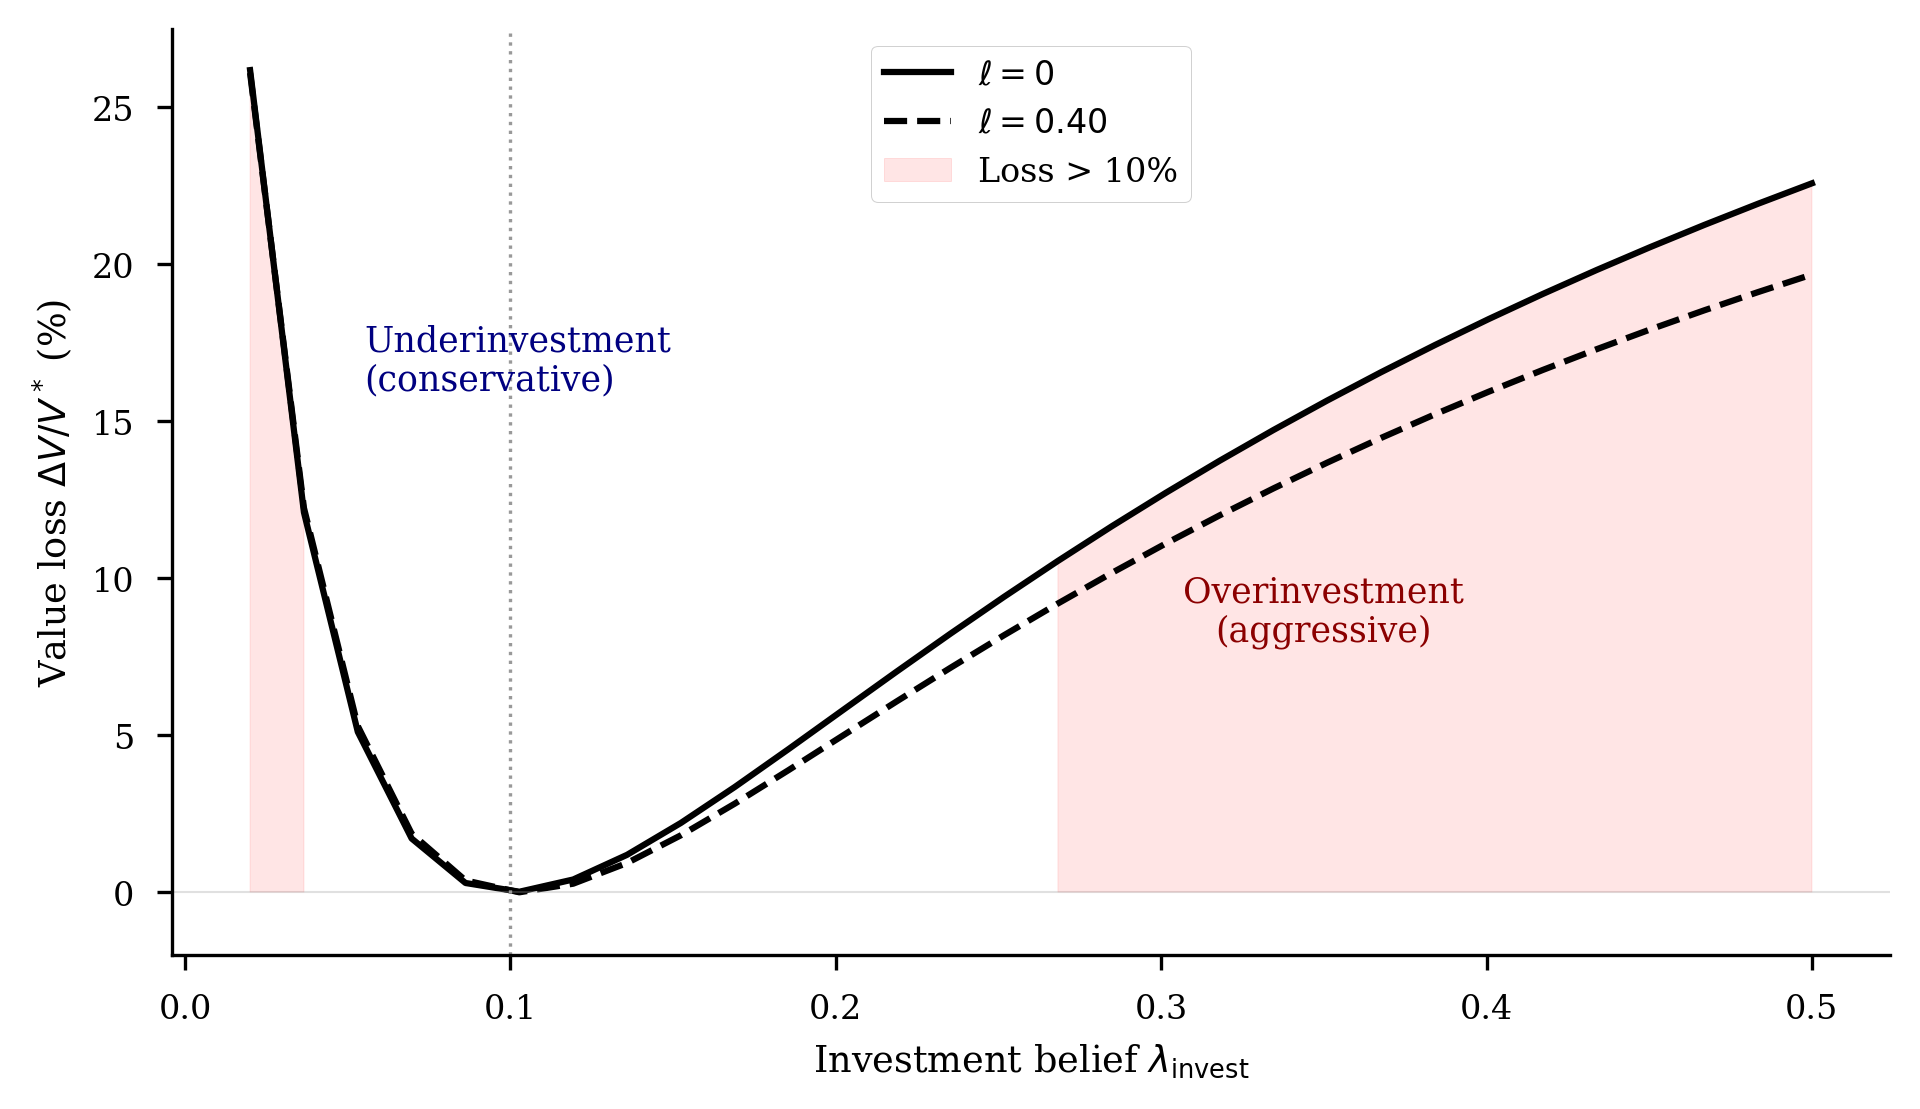
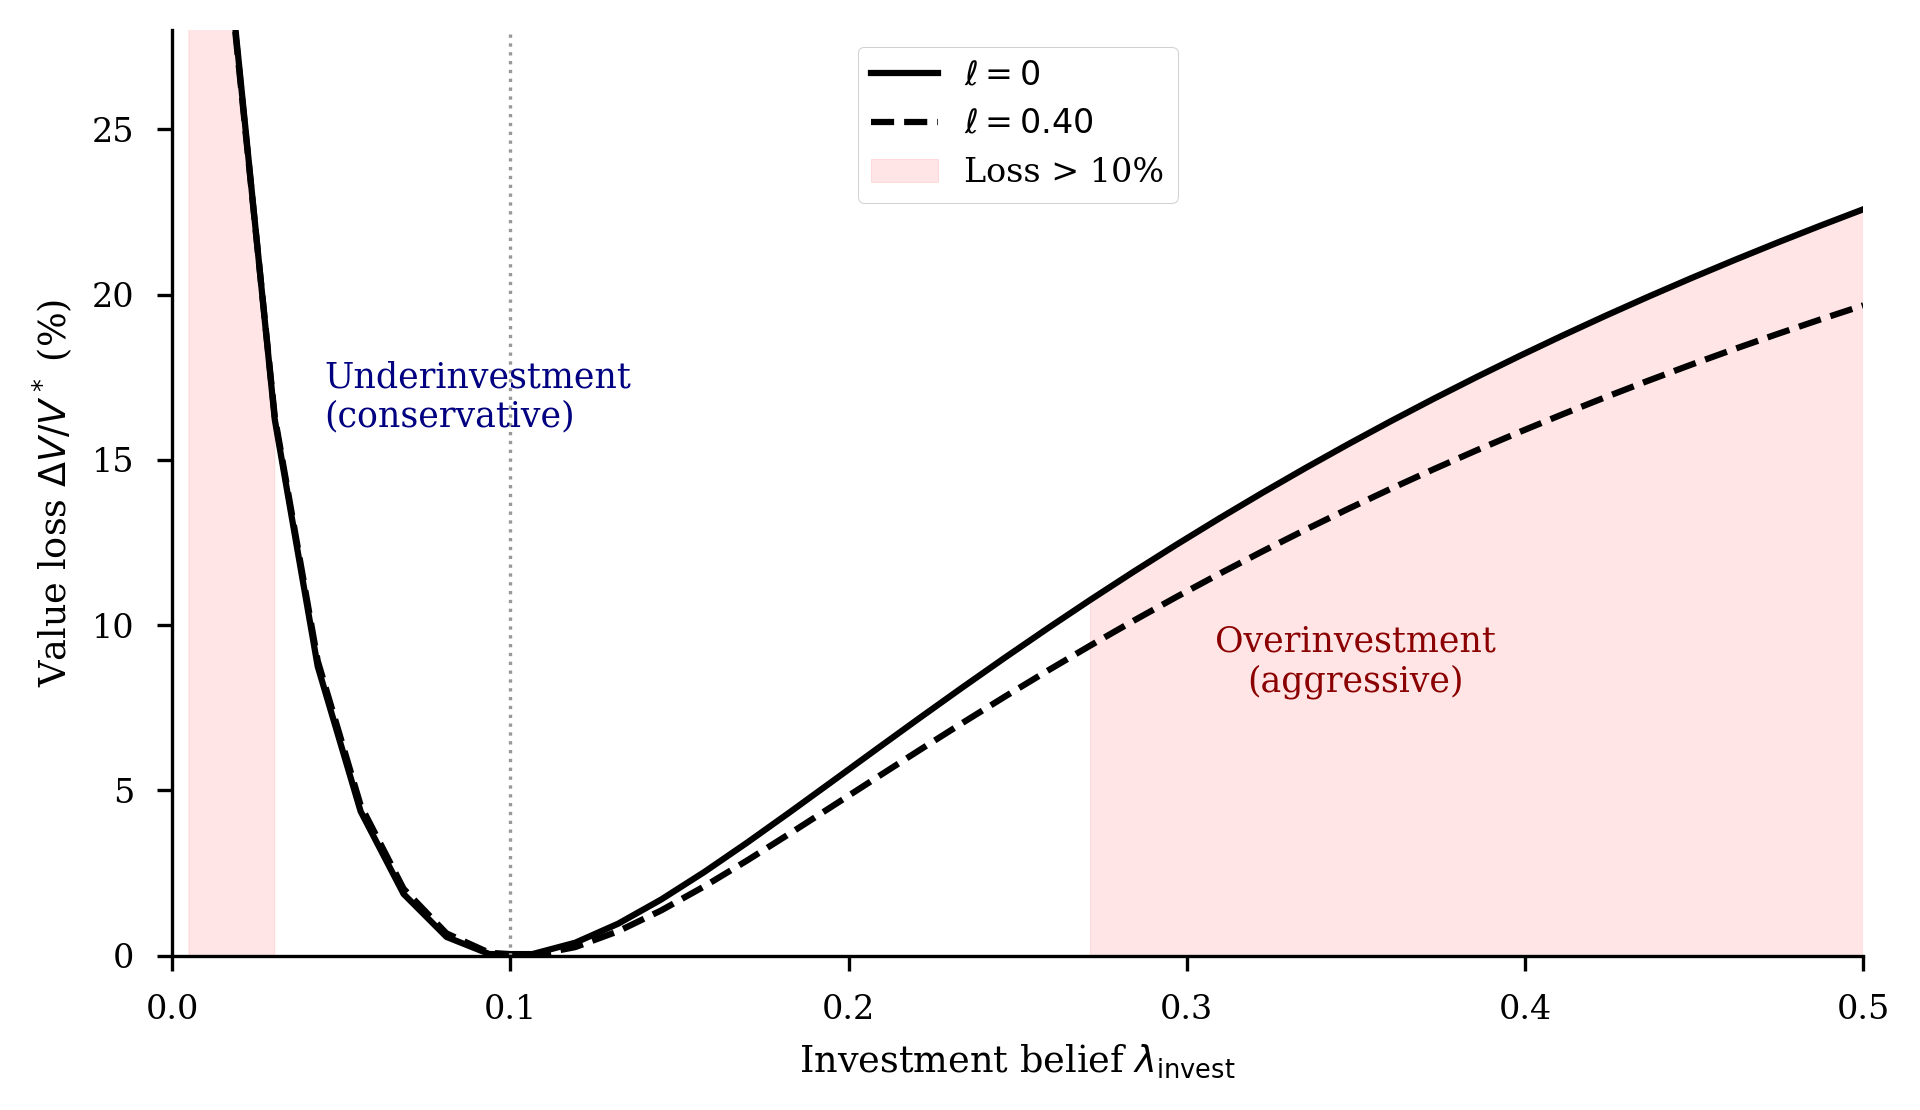
Refine investment dilemma figure: extend to x=0, fix axes
- Extend lambda range down to 0.005 so curves reach near x=0
- Set xlim=(0, 0.5), ylim=(0, 28) to show full range with clean axes
- Move underinvestment label to x=0.045
- Remove redundant axhline at y=0 (now at axis boundary)

diff --git a/src/ai_lab_investment/figures/paper.py b/src/ai_lab_investment/figures/paper.py
@@ -593,7 +593,7 @@ def create_investment_dilemma() -> plt.Figure:
     va = ValuationAnalysis(p)
 
     fixed_true = 0.10
-    lam_range = np.linspace(0.02, 0.50, 30)
+    lam_range = np.linspace(0.005, 0.50, 40)
 
     losses_unlev = []
     for li in lam_range:
@@ -614,7 +614,6 @@ def create_investment_dilemma() -> plt.Figure:
     ax.plot(lam_range, losses_lev_arr, "k--", linewidth=1.5, label=r"$\ell = 0.40$")
 
     ax.axvline(fixed_true, color="0.6", linestyle=":", linewidth=0.8)
-    ax.axhline(0, color="0.6", alpha=0.3, linewidth=0.5)
 
     high_loss = losses_unlev_arr > 10
     if high_loss.any():
@@ -631,11 +630,12 @@ def create_investment_dilemma() -> plt.Figure:
     ax.set_xlabel(r"Investment belief $\lambda_{\mathrm{invest}}$")
     ax.set_ylabel(r"Value loss $\Delta V / V^*$ (%)")
     ax.legend(loc="upper center", framealpha=0.9)
-    ax.set_ylim(bottom=-2)
+    ax.set_xlim(0, 0.5)
+    ax.set_ylim(0, 28)
 
     ax.annotate(
         "Underinvestment\n(conservative)",
-        xy=(0.055, 16),
+        xy=(0.045, 16),
         fontsize="small",
         ha="left",
         color="navy",
